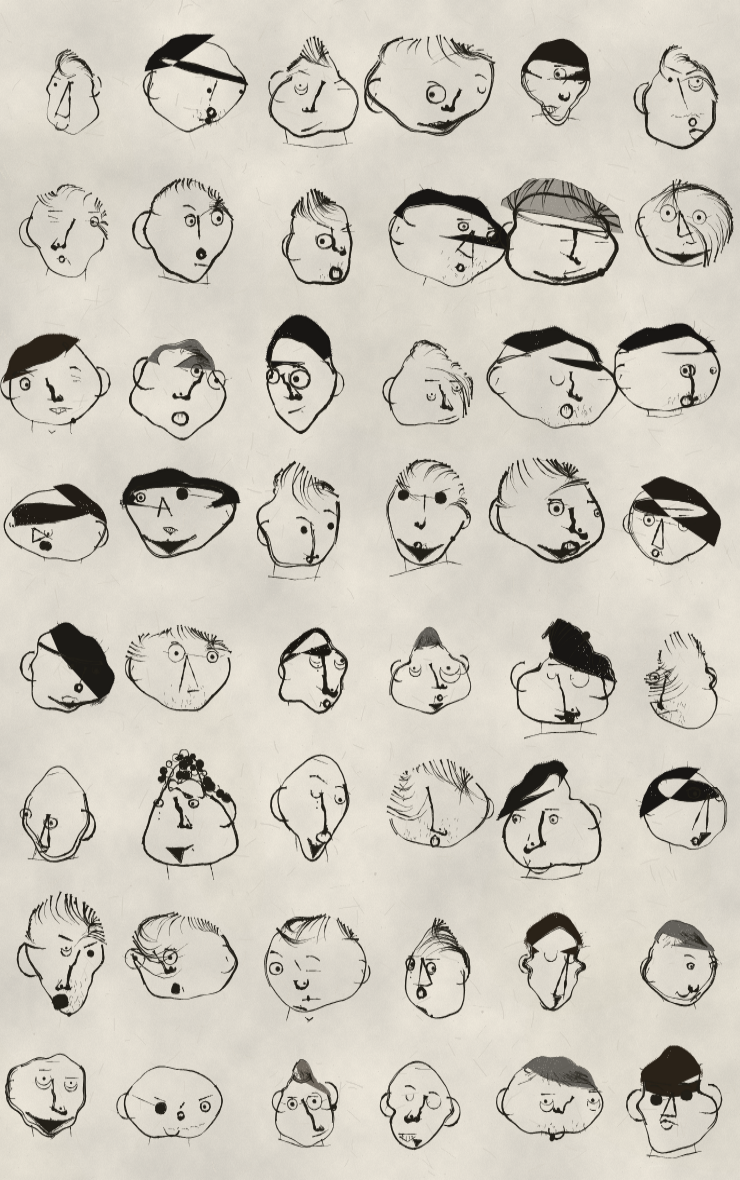
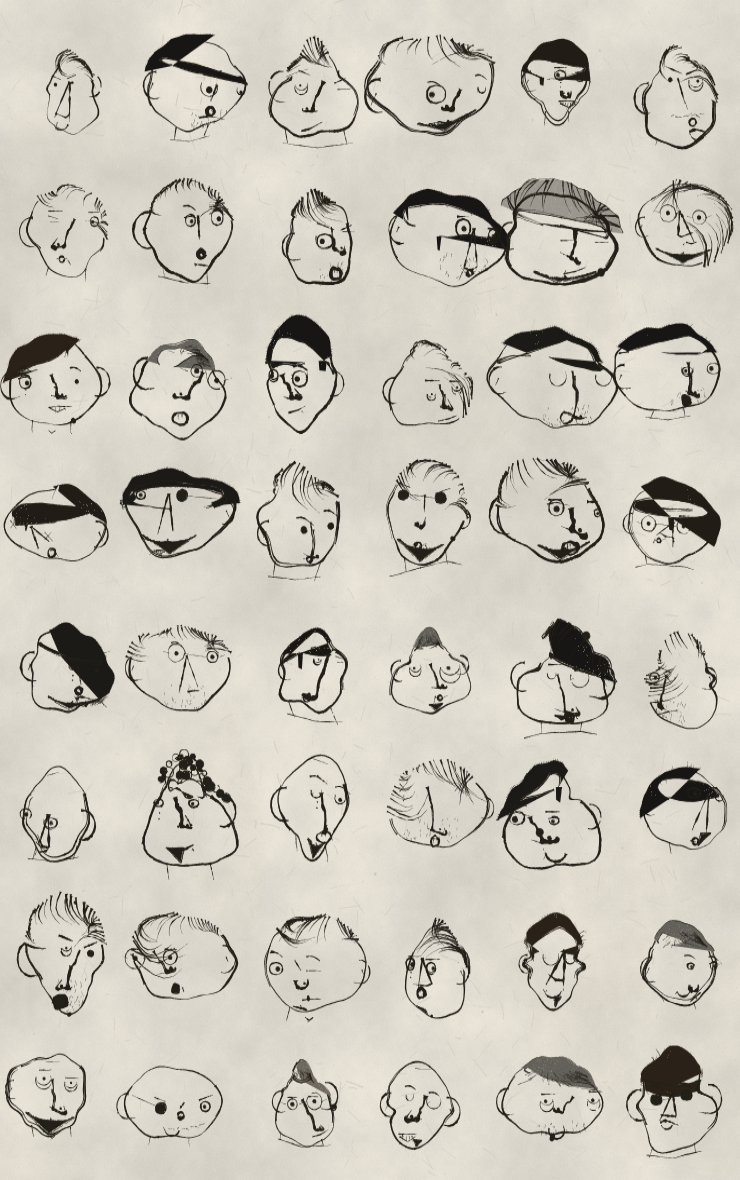
Gauntlet: break the cap silhouette
The one item on the checklist that stayed broken: the same three or four
black cap silhouettes at forty scales and rotations, with an edge that
never once spills onto the face.

One cap topology - a hairline with the crown pushed outward - can only
ever make one shape family. Three things now cut across it: a parting
carved back to the skin and re-fibred so the scalp reads through it,
one to three locks hanging past the hairline onto the forehead, and a
sideburn running down past the ear.

Claude-Session: https://claude.ai/code/session_01RJWY9ufwnD6fjwW6ve4one

diff --git a/dude.js b/dude.js
@@ -1047,7 +1047,79 @@
     inkFill(c, rng, mass, color, 1, (opt.rag ?? 2.0) * k * 0.7);
     ragEdge(c, rng, top, h._cx, h._cy, (opt.rag ?? 2.0) * k * 1.5, color);
     inkPoly(c, rng, front, { w: (opt.edge ?? 2.5) * k, dry: 0.5 });
+    capBreaks(c, rng, h, color, opt);
     strayHairs(c, rng, h, opt);
+  }
+
+  // One cap topology — a hairline with the crown offset outward — gives the
+  // same three or four silhouettes at forty scales and rotations, and a
+  // hairline that never once spills onto the face. These break it: a parting
+  // cut back to the skin, locks hanging past the brow, a sideburn running
+  // down past the ear.
+  function capBreaks(c, rng, h, color, opt = {}) {
+    const { front, top } = h;
+    const k = h._s / 100;
+    if (front.length < 4 || top.length < 3) return;
+
+    if (rng.chance(0.32)) {
+      // a parting cut back to the skin
+      const ti = rng.i(1, top.length - 2);
+      const fi = Math.max(1, Math.min(front.length - 2, Math.round((1 - ti / (top.length - 1)) * (front.length - 1))));
+      const a = top[ti];
+      const b = front[fi];
+      const wdt = h._s * rng.f(0.03, 0.075);
+      const dx = b.x - a.x;
+      const dy = b.y - a.y;
+      const d = Math.hypot(dx, dy) || 1;
+      const nx = -dy / d;
+      const ny = dx / d;
+      const deep = rng.f(0.55, 1.0);
+      const gap = [];
+      for (let i = 0; i <= 6; i++) {
+        const t = (i / 6) * deep;
+        const wob = Math.sin(t * Math.PI) * wdt;
+        gap.push({ x: a.x + dx * t + nx * (wdt * 0.35 + wob), y: a.y + dy * t + ny * (wdt * 0.35 + wob) });
+      }
+      for (let i = 6; i >= 0; i--) {
+        const t = (i / 6) * deep;
+        const wob = Math.sin(t * Math.PI) * wdt;
+        gap.push({ x: a.x + dx * t - nx * (wdt * 0.35 + wob), y: a.y + dy * t - ny * (wdt * 0.35 + wob) });
+      }
+      inkFill(c, rng, gap, PAPER, 1, 1.1 * k);
+      refibre(c, rng, gap);
+      inkPoly(c, rng, gap.slice(0, 7), { w: 1.1 * k, dry: 1.2 });
+    }
+
+    // locks hanging past the hairline onto the forehead
+    const locks = rng.chance(0.55) ? rng.i(1, 3) : 0;
+    for (let i = 0; i < locks; i++) {
+      const fi = rng.i(1, front.length - 2);
+      const p = front[fi];
+      if (p.z !== undefined && p.z < 0.05) continue;
+      const drop = h._s * rng.f(0.1, 0.3);
+      const wdt = h._s * rng.f(0.035, 0.085);
+      const lean = rng.f(-0.5, 0.5);
+      const tip = { x: p.x + drop * lean, y: p.y + drop };
+      inkFill(c, rng, [
+        { x: p.x - wdt, y: p.y - wdt * 0.4 },
+        { x: p.x + wdt, y: p.y - wdt * 0.6 },
+        { x: tip.x + wdt * 0.18, y: tip.y },
+        { x: tip.x - wdt * 0.1, y: tip.y + wdt * 0.2 },
+      ], color, 1, 1.3 * k);
+    }
+
+    // a sideburn running down past the ear
+    if (rng.chance(0.3)) {
+      const end = rng.chance(0.5) ? front[0] : front[front.length - 1];
+      const drop = h._s * rng.f(0.16, 0.42);
+      const wdt = h._s * rng.f(0.05, 0.1);
+      inkFill(c, rng, [
+        { x: end.x - wdt, y: end.y },
+        { x: end.x + wdt, y: end.y },
+        { x: end.x + wdt * rng.f(0.2, 0.7), y: end.y + drop },
+        { x: end.x - wdt * rng.f(0.5, 1.0), y: end.y + drop * rng.f(0.8, 1.0) },
+      ], color, 1, 1.4 * k);
+    }
   }
 
   // Break one edge of a mass with outward stroke-ends, leaving the rest clean.
